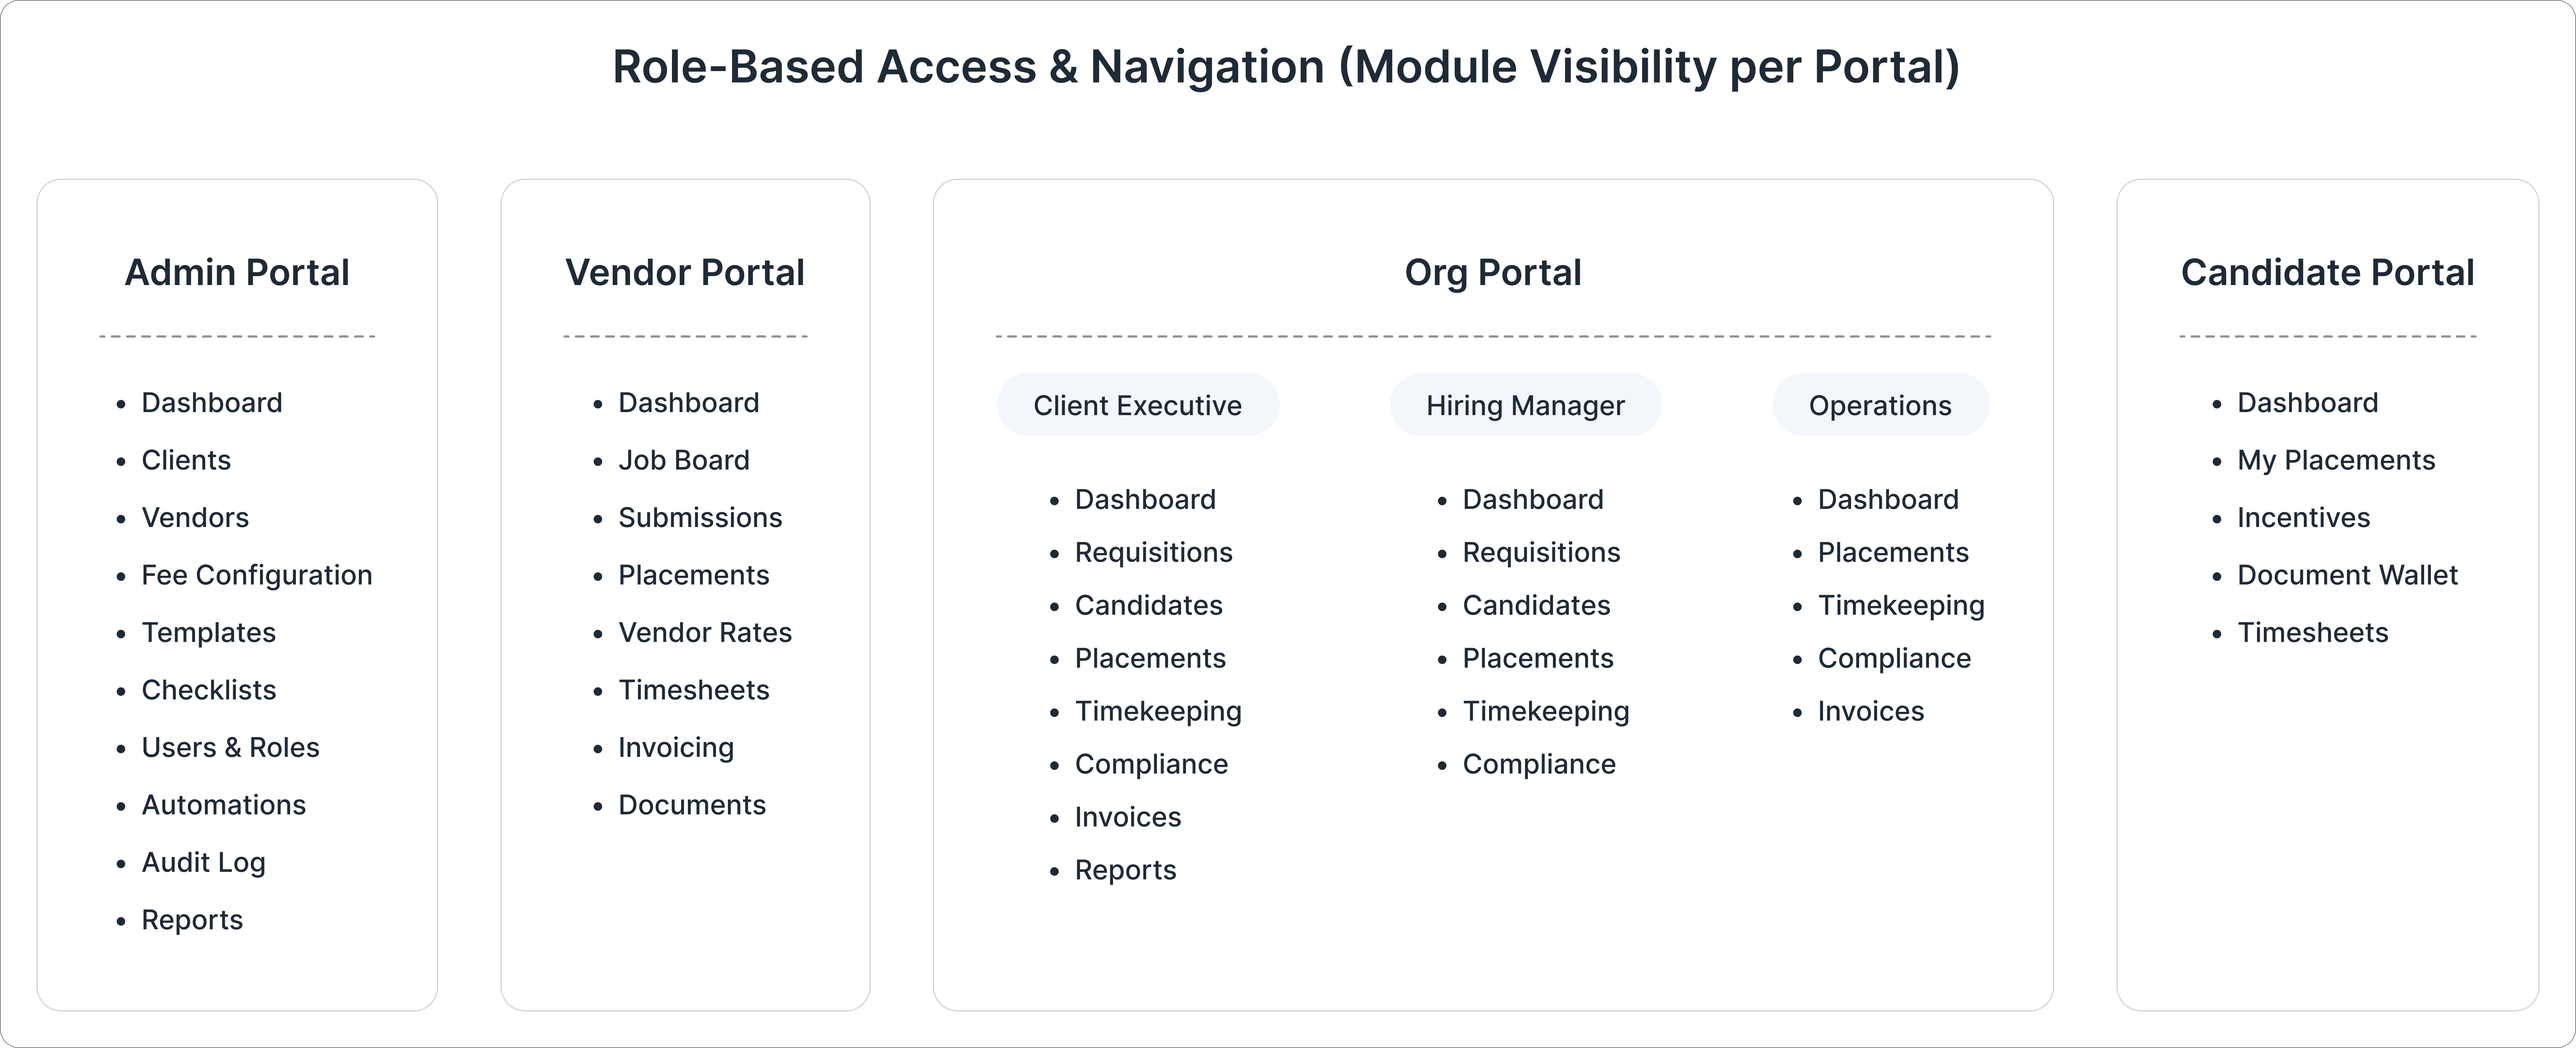
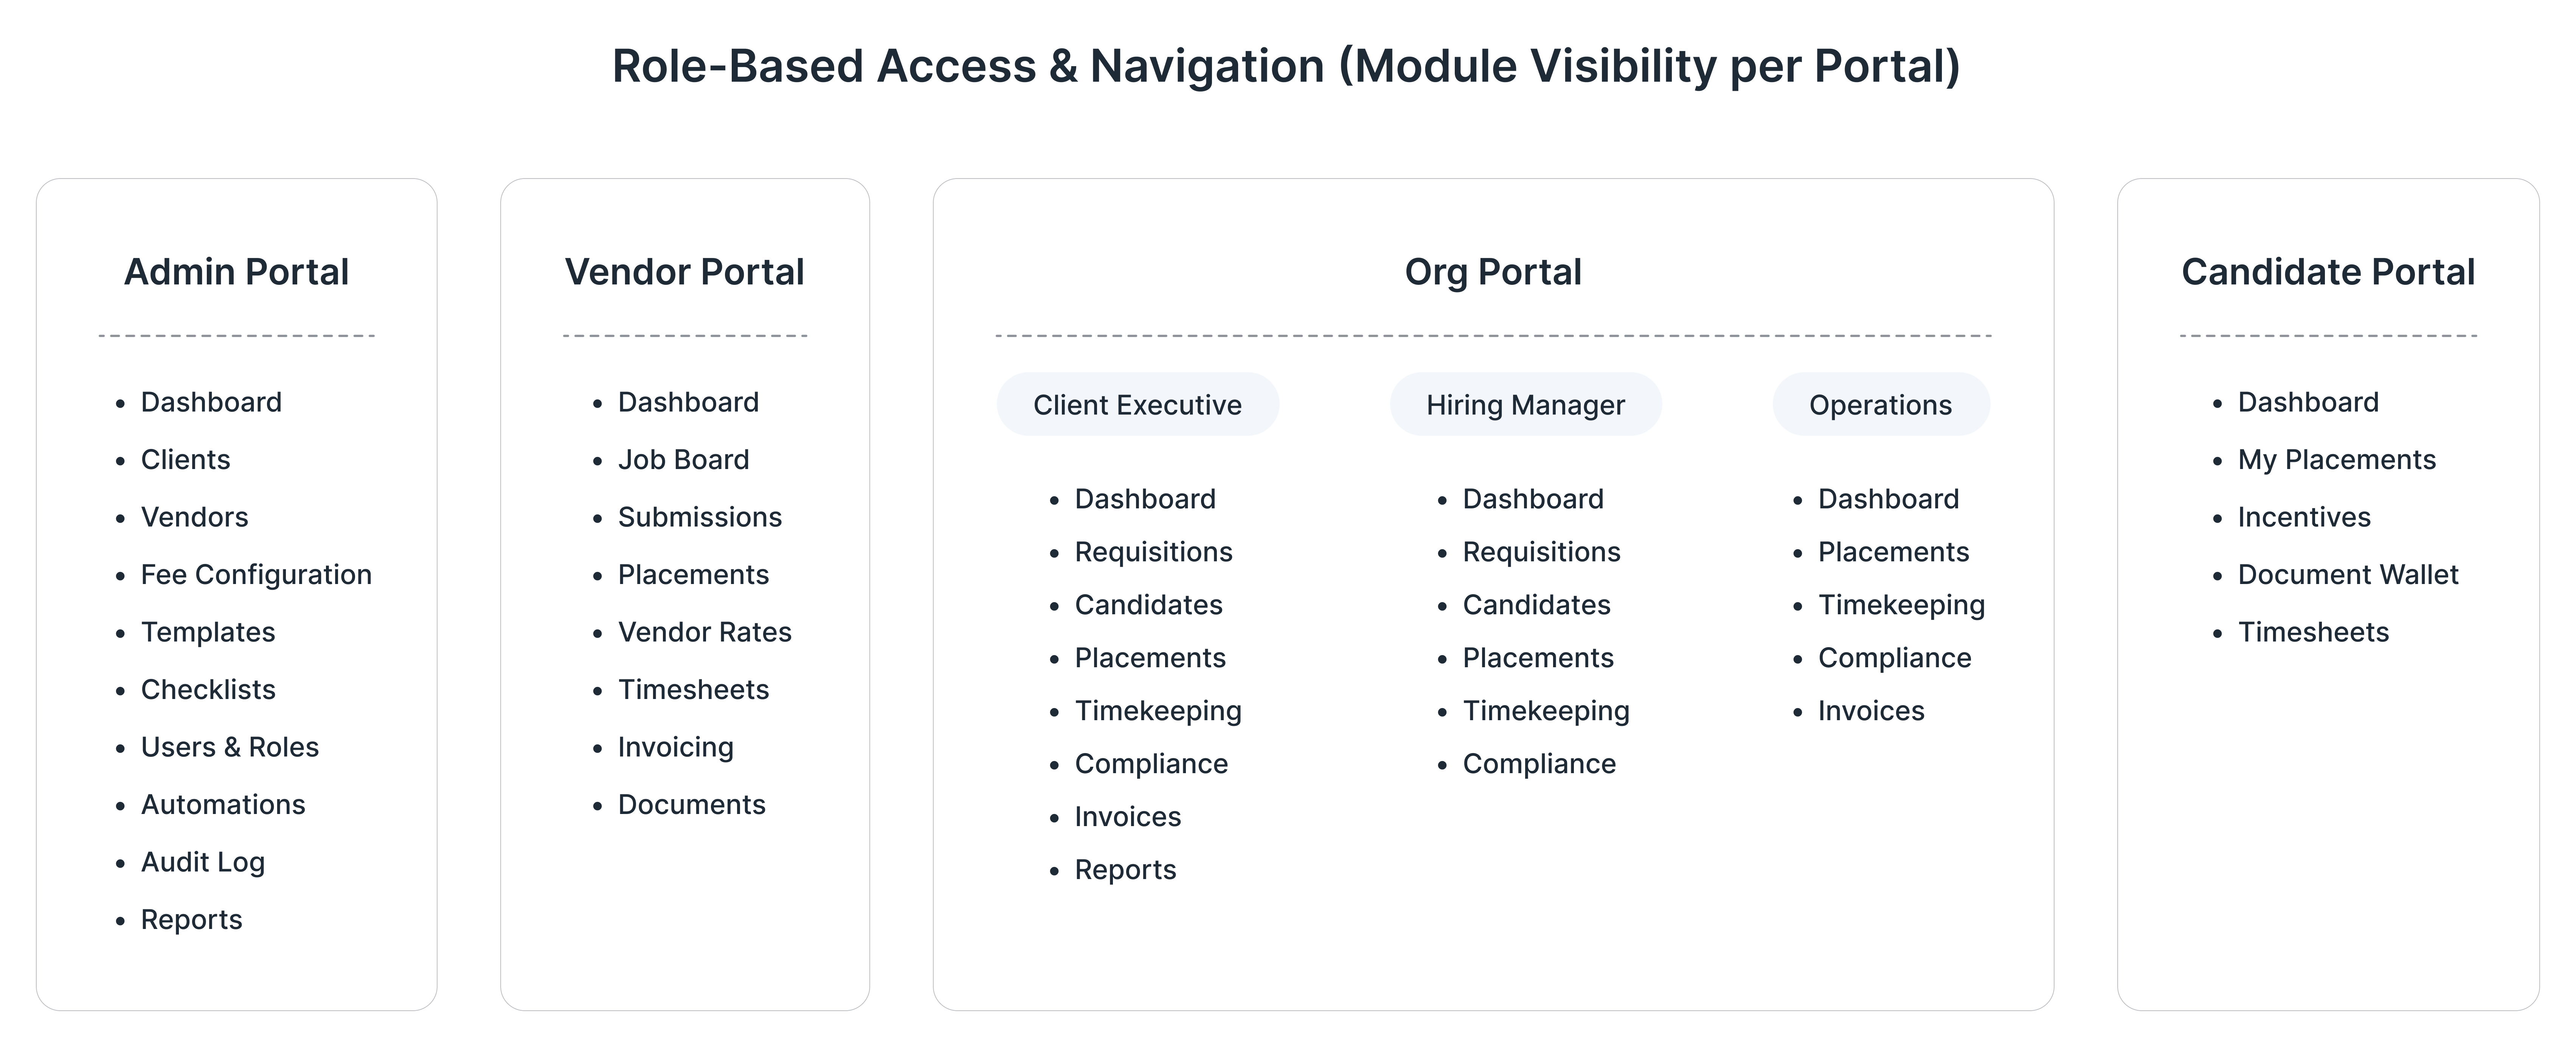
Remove both images and heading from ecosystem tab

diff --git a/app/page.tsx b/app/page.tsx
@@ -104,25 +104,6 @@ export default function AccessIQCaseStudy() {
                   <li><span className="font-medium text-gray-900">Admin Portal:</span> A high-level control center for &quot;Program&quot; roles (StaffLogic internal) to manage configurations and global MSP/SaaS fees.</li>
                 </ul>
               </div>
-              <div className="relative w-full h-[600px] md:h-[800px] mb-24">
-                <Image
-                  src="/Ecosystem/Role-Based Access & Navigation (Module Visibility per Portal).png"
-                  alt="Role-Based Access & Navigation"
-                  fill
-                  className="object-contain"
-                />
-              </div>
-              <div className="mb-24">
-                <h3 className="text-lg font-semibold">Role-Based Access & Navigation (Module Visibility per Portal)</h3>
-              </div>
-              <div className="relative w-full h-[600px] md:h-[800px] mb-0">
-                <Image
-                  src="/Ecosystem/2nd Img.png"
-                  alt="2nd img"
-                  fill
-                  className="object-contain"
-                />
-              </div>
               <div className="w-full mt-8 pt-8 border-t border-gray-200">
                 <div className="text-sm text-gray-400 mb-3">Constraints</div>
                 <p className="text-gray-600 leading-relaxed mb-3">